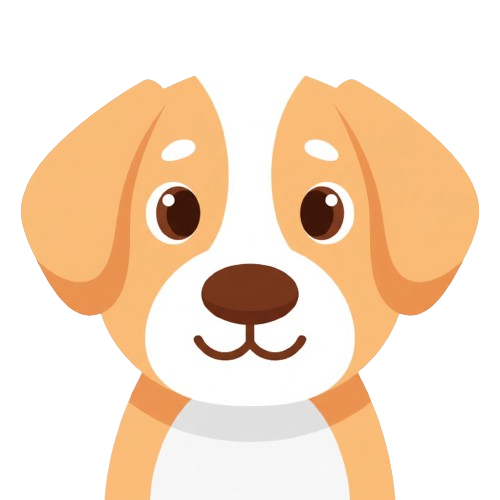
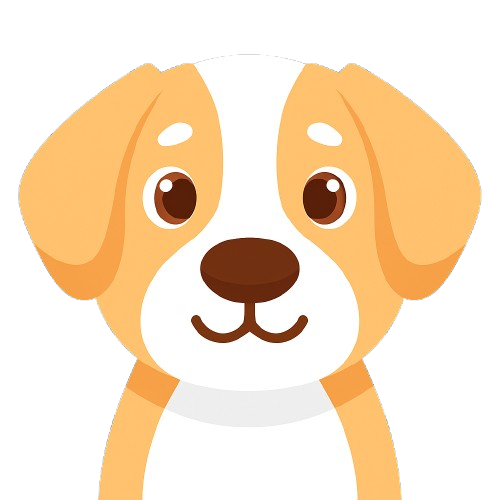
chore: fix height problem and new stroked button on pets page;

Changed region(s): [[0.03, 0.12, 0.96, 1.0]]

diff --git a/src/components/feat/ModeToggle.tsx b/src/components/feat/ModeToggle.tsx
@@ -7,15 +7,16 @@ import { useTheme } from "next-themes"
 import { Button } from "@/components/ui/button"
 
 export function ModeToggle() {
-  const { setTheme, theme } = useTheme()
+  const theme = localStorage.getItem("theme") // Ensure the theme is set in localStorage
+  const { setTheme } = useTheme()
 
   return (
     <div className="flex items-center gap-2 p-2">
-      <Button className="text-xl cursor-pointer" size="lg" variant={ theme === 'dark' ? 'outline' : 'default' } onClick={() => setTheme("light")}>
+      <Button className="text-xl cursor-pointer" size="lg" variant={ theme === 'light' ? 'default' : 'outline' } onClick={() => setTheme("light")}>
         <Sun className="scale-150" />
         Light Mode
       </Button>
-      <Button className="text-xl cursor-pointer" size="lg" variant={ theme === 'light' ? 'outline' : 'default' } onClick={() => setTheme("dark")}>
+      <Button className="text-xl cursor-pointer" size="lg" variant={ theme === 'dark' ? 'default' : 'outline' } onClick={() => setTheme("dark")}>
         <Moon className="scale-150" />
         Dark Mode
       </Button>

diff --git a/src/components/ui/input.tsx b/src/components/ui/input.tsx
@@ -1,0 +1,21 @@
+import * as React from "react"
+
+import { cn } from "@/lib/utils"
+
+function Input({ className, type, ...props }: React.ComponentProps<"input">) {
+  return (
+    <input
+      type={type}
+      data-slot="input"
+      className={cn(
+        "file:text-foreground placeholder:text-muted-foreground selection:bg-primary selection:text-primary-foreground dark:bg-input/30 border-input flex h-9 w-full min-w-0 rounded-md border bg-transparent px-3 py-1 text-base shadow-xs transition-[color,box-shadow] outline-none file:inline-flex file:h-7 file:border-0 file:bg-transparent file:text-sm file:font-medium disabled:pointer-events-none disabled:cursor-not-allowed disabled:opacity-50 md:text-sm",
+        "focus-visible:border-ring focus-visible:ring-ring/50 focus-visible:ring-[3px]",
+        "aria-invalid:ring-destructive/20 dark:aria-invalid:ring-destructive/40 aria-invalid:border-destructive",
+        className
+      )}
+      {...props}
+    />
+  )
+}
+
+export { Input }

diff --git a/src/components/ui/cardPet.tsx b/src/components/ui/cardPet.tsx
@@ -1,0 +1,19 @@
+import { LucideProps } from "lucide-react";
+import { ForwardRefExoticComponent, RefAttributes } from "react";
+
+type CardCountProps = {
+  subject: string;
+  count: number;
+  text: string;
+  Icon: ForwardRefExoticComponent<Omit<LucideProps, "ref"> & RefAttributes<SVGSVGElement>>;
+};
+
+export default function CardCount({ subject, count, text, Icon }: CardCountProps) {
+  return (
+    <div className='relative bg-card border-2 border-border p-4 pl-11 rounded-2xl'>
+      <Icon className="absolute flex left-3 top-[28px] transform -translate-y-1/2 text-card-foreground" />
+      <h2 className="text-lg font-semibold text-card-foreground">{count}</h2>
+      <p className="text-sm text-muted-foreground">{text}</p>
+    </div>
+  )
+}

diff --git a/src/app/layout.tsx b/src/app/layout.tsx
@@ -21,17 +21,19 @@ export default function RootLayout({
   return (
     <ClerkProvider localization={ptBR}>
       <html suppressHydrationWarning lang="pt-BR" className='bg-background'>
-        <body suppressHydrationWarning>
+        <body suppressHydrationWarning className='flex  flex-col h-dvh'>
           <ThemeProvider 
             attribute="class" 
             defaultTheme="system" 
             enableSystem 
             disableTransitionOnChange
           >
+            <div className='flex flex-col flex-1'>
+            {children}
+            </div>
             <SignedIn>
               <NavBar />
             </SignedIn>
-            {children}
           </ThemeProvider>
         </body>
       </html>

diff --git a/src/components/feat/NewUserHome.tsx b/src/components/feat/NewUserHome.tsx
@@ -2,15 +2,14 @@ import Image from "next/image";
 
 export default function NewUserHome() {
   return (
-    <main className="flex flex-col items-center bg-background gap-4">
+    <main className="flex flex-col items-center bg-background gap-4 p-4">      
       <Image
         src="/Caramelo3.png"
         alt="User Avatar"
-        width={112}
-        height={112}
+        width={216}
+        height={216}
         className="w-54 h-54 rounded-full"
-      />
-      <h2 className="text-3xl text-foreground">Seja Bem-vindo!</h2>
+      />      <h2 className="text-3xl text-foreground">Seja Bem-vindo!</h2>
       <p className="text-2xl text-foreground">Vamos finalizar seu cadastro?</p>
     </main>
   )

diff --git a/src/app/user/page.tsx b/src/app/user/page.tsx
@@ -16,8 +16,8 @@ export default async function Page() {
   }
 
   return (
-    <>
-      <main className="flex flex-col px-4 py-2">
+    <div className="min-h-dvh">
+      <main className="flex flex-col px-4 py-2 ">
         <img src={user.imageUrl} alt="User Avatar" className="self-center w-32 h-32 rounded-full mb-4" />
         <h1 className="text-2xl font-bold text-foreground">{user.fullName}</h1>
         <p className="text-lg text-muted-foreground">
@@ -59,6 +59,6 @@ export default async function Page() {
           <ModeToggle />
         </div>
       </section>
-    </>
+    </div>
   );
 }

diff --git a/src/components/feat/NavBar.tsx b/src/components/feat/NavBar.tsx
@@ -17,7 +17,7 @@ export default function NavBar() {
   const pathName = usePathname();
 
   return (
-    <nav className="fixed w-full flex justify-center bottom-0 bg-background z-50">
+    <nav className="sticky w-full flex justify-around bottom-0 bg-background z-50">
       <div className="px-1 py-4 w-full gap-4 flex justify-evenly border-t-1 border-t-border">
         {navItems.map(({ href, icon: Icon }) => (
           <Button

diff --git a/src/components/ui/cardNew.tsx b/src/components/ui/cardNew.tsx
@@ -1,0 +1,10 @@
+import { Plus } from "lucide-react";
+
+export default function CardNew() {
+  return (
+    <article className="flex gap-8 justify-center items-center w-full p-6 border-2 border-dashed border-border/70 rounded-2xl text-center text-foreground/40">
+      <Plus className="scale-200" />
+      <p className="text-2xl">Adicionar Novo Pet</p>
+    </article>
+  )
+}

diff --git a/src/app/pet/page.tsx b/src/app/pet/page.tsx
@@ -1,6 +1,12 @@
+import CardNew from "@/components/ui/cardNew";
+
 export default function Page() {
   return (
-    <main>
-    </main>
+    <>
+      <h1 className="text-3xl text-foreground text-center border-b-2 border-border py-2">Pets</h1>
+      <main className="flex flex-col gap-4 p-4">
+        <CardNew />
+      </main>
+    </>
   );
 }
